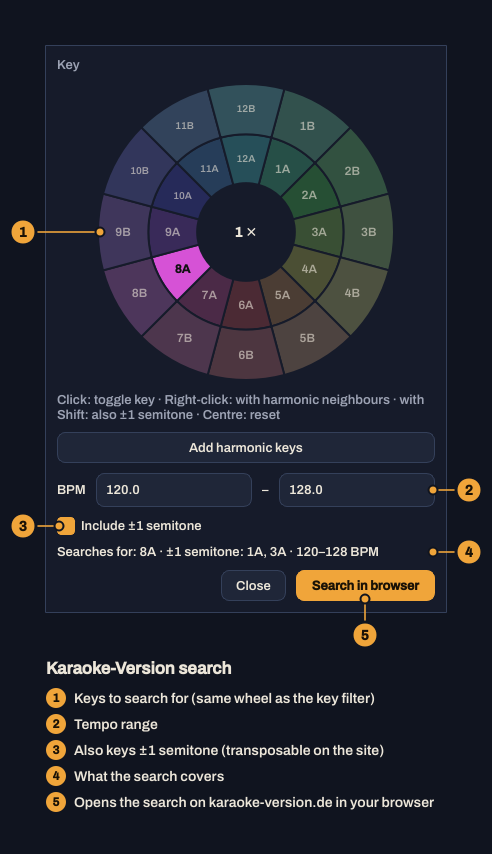
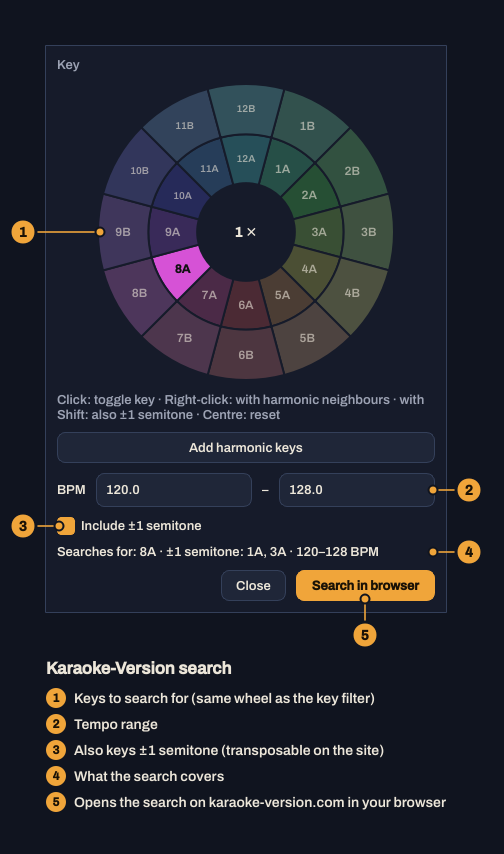
Karaoke-Version: use karaoke-version.com instead of .de
- Browser search and song links go to https://www.karaoke-version.com
- English song pages are understood: "Tempo: (around) 128 BPM",
  "... same key as the original: B, F#m", "Duration/Length: 04:27"
  (English note names: B = B natural); German pages still work
- Result count also read from "N songs available"; Accept-Language en
- README, MCP description, tests and the docs screenshot updated

Claude-Session: https://claude.ai/code/session_01WHPo8iWepkYybUHWQj5Dcp

diff --git a/keytool/research.py b/keytool/research.py
@@ -1,7 +1,8 @@
-"""External research on Karaoke-Version (karaoke-version.de): search by key(s) and BPM range and parse
+"""External research on Karaoke-Version (karaoke-version.com): search by key(s) and BPM range and parse
 the results.
 
-Site facts (verified Nov 2026):
+Site facts (verified Nov 2026 on the German site karaoke-version.de, which runs the same shop software; the
+English .com pages are parsed with the matching English labels):
 * Search  /custombackingtrack/karaoke.html?chordkey=<codes>&tempo=<min>,<max>&page=<n>
           20 results per page; several keys and any BPM range can be combined.
 * Results (.songlist__item) carry title, artist, year, price, image and the song page link,
@@ -10,7 +11,8 @@ Site facts (verified Nov 2026):
 * Song page "Tempo: 126 BPM" | "Tempo: variabel (ca. 130 BPM)" | no tempo line,
           "In der gleichen Tonart wie das Original: C, Bm" (German note names: H = B, B = Bb,
           Fis/Cis/... = sharps, Es/As/... = flats; several keys = key changes within the song),
-          "Dauer: 04:27".
+          "Dauer: 04:27". On .com: "Tempo: 126 BPM" / "around 130 BPM", "...same key as the original: C, Bm"
+          (English note names: B = B natural, Bb = B flat), "Duration: 04:27" / "Length: 04:27".
 * Terms: Recisio's AGB only reserve text & data mining for AI/ML training; robots.txt allows the
           search pages for normal user agents. KeyTool only fetches what the user asks for, identifies
           itself, throttles requests and caches song pages.
@@ -31,7 +33,7 @@ from urllib.parse import urlencode, urljoin
 from . import __version__
 from .keys import Key
 
-BASE = "https://www.karaoke-version.de"
+BASE = "https://www.karaoke-version.com"
 SEARCH_PATH = "/custombackingtrack/karaoke.html"
 PER_PAGE = 20
 USER_AGENT = f"KeyTool/{__version__} (desktop music library; key/BPM research)"
@@ -155,8 +157,9 @@ def parse_total(page_html: str) -> int | None:
     m = re.search(r'data-pagination-ajax[^>]*data-total="(\d+)"', page_html)
     if m:
         return int(m.group(1))
-    m = re.search(r"(\d[\d.]*)\s+Titel verfügbar", page_html)
-    return int(m.group(1).replace(".", "")) if m else None
+    m = (re.search(r"(\d[\d.]*)\s+Titel verfügbar", page_html)
+         or re.search(r"(\d[\d,.]*)\s+(?:songs?|tracks?|titles?)\s+available", page_html, re.I))
+    return int(re.sub(r"[.,]", "", m.group(1))) if m else None
 
 
 def parse_list(page_html: str, base: str = BASE) -> tuple[int | None, list[KVSong]]:
@@ -201,29 +204,50 @@ def parse_german_key(token: str) -> Key | None:
     return None
 
 
+_EN_PC = {"c": 0, "d": 2, "e": 4, "f": 5, "g": 7, "a": 9, "b": 11}
+
+
+def parse_english_key(token: str) -> Key | None:
+    """'Am', 'C', 'F#m', 'Bb', 'Eb minor', 'B' (= B natural) ..."""
+    t = token.strip().replace("♯", "#").replace("♭", "b")
+    m = re.fullmatch(r"([A-Ga-g])\s*([#b])?\s*(m|min|minor|maj|major)?", t)
+    if not m:
+        return None
+    pc = (_EN_PC[m.group(1).lower()] + {"#": 1, "b": -1}.get(m.group(2) or "", 0)) % 12
+    return Key(pc, (m.group(3) or "").lower() in ("m", "min", "minor"))
+
+
 def parse_detail(page_html: str) -> KVDetails:
     text = _text(page_html)
+    german = bool(re.search(r"Tonart|Dauer:", text))
     bpm, variable = None, False
-    m = re.search(r"Tempo:\s*(variabel|variable)?\s*\(?\s*(?:ca\.|ungefähr|around)?\s*(\d+(?:[.,]\d+)?)\s*BPM",
-                  text, re.I)
+    m = re.search(r"Tempo:\s*(variabel|variable)?\s*\(?\s*(?:ca\.|ungefähr|around|approx\.?|about)?\s*"
+                  r"(\d+(?:[.,]\d+)?)\s*BPM", text, re.I)
     if m:
-        variable = bool(m.group(1))
+        variable = bool(m.group(1)) or bool(re.search(r"Tempo:\s*(?:around|approx|about)", text, re.I))
         bpm = float(m.group(2).replace(",", "."))
     keys: list[str] = []
-    m = (re.search(r"Tonart wie das Original:\s*(.+?)(?:\s+Dauer:|$)", text)
-         or re.search(r"(?:Originaltonart|Tonart|Tonlage)\s*:\s*(.+?)(?:\s+Dauer:|$)", text))
+    end = r"(?:\s+(?:Dauer|Duration|Length):|$)"
+    if german:
+        m = (re.search(rf"Tonart wie das Original:\s*(.+?){end}", text)
+             or re.search(rf"(?:Originaltonart|Tonart|Tonlage)\s*:\s*(.+?){end}", text))
+        parse_key, split = parse_german_key, r"\s*,\s*|\s+und\s+|\s*/\s*"
+    else:
+        m = (re.search(rf"key as the original:\s*(.+?){end}", text, re.I)
+             or re.search(rf"(?:Original key|Key)\s*:\s*(.+?){end}", text))
+        parse_key, split = parse_english_key, r"\s*,\s*|\s+and\s+|\s*/\s*"
     if m:
-        for tok in re.split(r"\s*,\s*|\s+und\s+|\s*/\s*", m.group(1)):
+        for tok in re.split(split, m.group(1)):
             tok = tok.strip()
             if not tok:
                 continue
-            k = parse_german_key(tok)
+            k = parse_key(tok)
             if k is None:
                 break           # end of the key list
             if k.code not in keys:
                 keys.append(k.code)
     dur = None
-    m = re.search(r"Dauer:\s*(\d+):(\d{2})", text)
+    m = re.search(r"(?:Dauer|Duration|Length):\s*(\d+):(\d{2})", text)
     if m:
         dur = int(m.group(1)) * 60 + int(m.group(2))
     return KVDetails(bpm, variable, keys, dur)
@@ -272,7 +296,7 @@ class KaraokeVersionClient:
     def _http_get(self, url: str) -> str:
         req = urllib.request.Request(url, headers={
             "User-Agent": USER_AGENT, "Accept": "text/html,application/xhtml+xml",
-            "Accept-Language": "de-DE,de;q=0.9"})
+            "Accept-Language": "en-US,en;q=0.9"})
         try:
             with urllib.request.urlopen(req, timeout=25) as r:
                 charset = r.headers.get_content_charset() or "utf-8"

diff --git a/tests/test_kv_blocked.py b/tests/test_kv_blocked.py
@@ -27,5 +27,22 @@ def test_client_raises_blocked_with_browser_url(tmp_path, monkeypatch):
         cl.search(keys, 120, 128)
     assert "chordkey=22%2C21" in e.value.url and "tempo=120%2C128" in e.value.url   # all keys in one search
     with pytest.raises(KVBlocked):
-        cl.load_details(KVSong("t", "a", None, "https://www.karaoke-version.de/custombackingtrack/x/y.html"))
+        cl.load_details(KVSong("t", "a", None, "https://www.karaoke-version.com/custombackingtrack/x/y.html"))
 
+
+
+def test_english_song_page_is_parsed():
+    """karaoke-version.com shows the song facts in English; B is B natural there (German B = B flat)."""
+    from keytool.research import parse_detail, parse_english_key
+    page = ("<div>Tempo: around 128 BPM</div><div>In the same key as the original: B, F#m and Eb</div>"
+            "<div>Duration: 04:27</div>")
+    d = parse_detail(page)
+    assert d.bpm == 128.0 and d.bpm_variable and d.duration == 267
+    assert [Key.from_code(c).camelot() for c in d.keys] == ["1B", "11A", "5B"]
+    assert parse_english_key("Bb minor").camelot() == "3A" and parse_english_key("H") is None
+    assert parse_detail("<p>Tempo: 96 BPM</p><p>Length: 03:05</p>").duration == 185
+
+
+def test_search_url_uses_the_com_site():
+    from keytool.research import search_url
+    assert search_url([Key.parse("8A")], 120, 128).startswith("https://www.karaoke-version.com/custombackingtrack/")

diff --git a/keytool/mcp_server.py b/keytool/mcp_server.py
@@ -229,7 +229,7 @@ _kv_client = None
 def search_karaoke_version(keys: list[str] | None = None, bpm_min: float | None = None,
                            bpm_max: float | None = None, page: int = 1, with_details: bool = False,
                            notation: str = "camelot", include_semitones: bool = False) -> dict:
-    """Search karaoke-version.de (custom backing tracks) by key(s) in any notation and/or a BPM range.
+    """Search karaoke-version.com (custom backing tracks) by key(s) in any notation and/or a BPM range.
 
     One request per key is made so every hit carries the key it was found for. 20 hits per key and page.
     with_details=true additionally reads each hit's song page for exact tempo (or 'variable ~x'), all keys

diff --git a/docs/make_screenshots.py b/docs/make_screenshots.py
@@ -381,7 +381,7 @@ def main():
         (pos(dlg.bmax, dlg, 1.0, 0.5, -2), "Tempo range", "right"),
         (pos(dlg.semitones, dlg, 0.0, 0.5, 2), "Also keys ±1 semitone (transposable on the site)", "left"),
         (pos(dlg.preview, dlg, 1.0, 0.5, -2), "What the search covers", "right"),
-        (pos(dlg.search_btn, dlg, 0.5, 1.0, 0, -2), "Opens the search on karaoke-version.de in your browser", "bottom"),
+        (pos(dlg.search_btn, dlg, 0.5, 1.0, 0, -2), "Opens the search on karaoke-version.com in your browser", "bottom"),
     ], "06-karaoke-version.png", "Karaoke-Version search")
     dlg.done(0)
 

diff --git a/tests/test_core.py b/tests/test_core.py
@@ -385,7 +385,7 @@ def test_kv_parse_list():
     assert total == 450 and len(songs) == 3
     s = songs[0]
     assert (s.title, s.artist, s.year, s.price) == ("Losing My Religion", "R.E.M.", 1991, "2,99 €")
-    assert s.url == "https://www.karaoke-version.de/custombackingtrack/r-e-m/losing-my-religion.html"
+    assert s.url == "https://www.karaoke-version.com/custombackingtrack/r-e-m/losing-my-religion.html"
     assert s.song_id == "10592-1" and s.image.startswith("https://")
     assert [x.artist for x in songs[1:]] == ["Andreas Gabalier", "Roland Kaiser"]
 

diff --git a/README.md b/README.md
@@ -23,7 +23,7 @@ More annotated screenshots are in [Screenshots](#screenshots) below.
 | Tags | BPM & key are **written into the file automatically** after analysis (ID3 TBPM/TKEY, Vorbis BPM/INITIALKEY, MP4 tmpo/initialkey) – can be turned off |
 | Details | Right-hand sidebar, shown/hidden with "Details" in the toolbar or Ctrl+I (remembered). Edit title, artist, album, album artist (ALBUMARTIST, only shown here), year, genre, comment, key, energy (1–10) and tempo – for one track or many at once; file type, bitrate, file size, duration and path are shown. Changes are written into the file tags (can be turned off) |
 | Manual correction | Override BPM/key; manual values are kept when a track is analysed again |
-| Research | Search **Karaoke-Version** (karaoke-version.de) by key(s) and BPM range (see the note on bot protection below) |
+| Research | Search **Karaoke-Version** (karaoke-version.com) by key(s) and BPM range (see the note on bot protection below) |
 | Player (deck) | Full-width deck: large title, key chip in its Camelot colour, large tempo, transpose buttons with the target key (e.g. "+1 3A"); cover (embedded or cover.jpg/folder.jpg in the folder, otherwise a placeholder), previous/next track, play/pause, stop, continuous play; plays through the system's default output device (follows device changes, e.g. headphones), volume, mute |
 | Transpose | Play one semitone higher (+1) or lower (−1) at the original tempo (Rubber Band via pedalboard); positions and cue points stay valid |
 | Serato cues | Existing Serato DJ hot cues (colour, name) and saved loops are read from the files (MP3, WAV, FLAC, M4A; OGG where possible) and shown in the waveform; clicking a cue flag or Alt+1…8 jumps to it |
